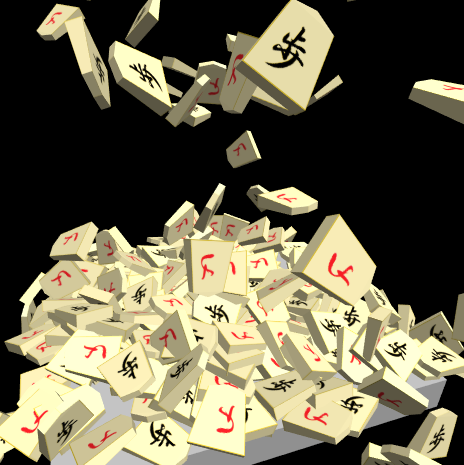
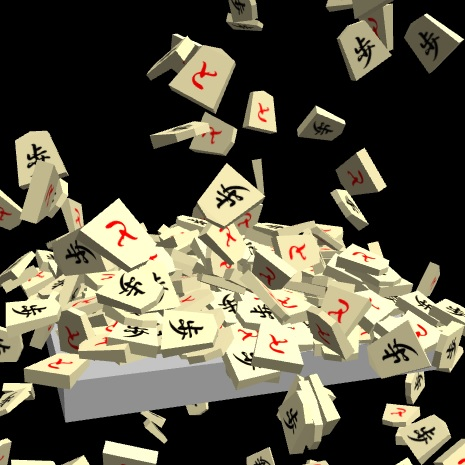
Adjusted the UV coordinates of shogi pieces

diff --git a/examples/glboost/oimo/shogi/index.js b/examples/glboost/oimo/shogi/index.js
@@ -153,16 +153,16 @@ function populate() {
     
     let texcoords = [
         // Front face
-        [0.5,  0.5], // v0
-        [0.75, 0.5], // v1
-        [0.75, 1.0], // v2
-        [0.5,  1.0], // v3
-        
+        [0.5,          0.5], // v1
+        [0.75,         0.5], // v0
+        [0.75 -0.25/8, 1.0], // v3
+        [0.5  +0.25/8, 1.0], // v2
+
         // Back face
-        [0.25, 0.5], // v4
-        [0.5,  0.5], // v5
-        [0.5,  1.0], // v6
-        [0.25, 1.0], // v7
+        [0.5 ,         0.5], // v5
+        [0.25,         0.5], // v4
+        [0.25 +0.25/8, 1.0], // v7
+        [0.5  -0.25/8, 1.0], // v6
         
         // Top face
         [0.75, 0.5], // v2
@@ -204,7 +204,7 @@ function populate() {
         // Left2 Face
         [0.75,  0.0], // v3
         [1.0,   0.0], // v7
-        [1.0,   0.0], // v9
+        [1.0,   0.5], // v9
         [0.75,  0.5]  // v8
     ];
 
@@ -217,7 +217,7 @@ function populate() {
         20, 21, 22,   20, 22, 23,  // Left face
         24, 25, 26,                // Front2 face
         27, 28, 29,                // Back2 face
-        30, 31, 32,   30, 32, 33,  // Right2 face
+        30, 33, 31,   33, 32, 31,  // Right2 face
         34, 35, 36,   34, 36, 37   // Left2 face
     ];
 

diff --git a/examples/webgl1/oimo/shogi/index.js b/examples/webgl1/oimo/shogi/index.js
@@ -121,16 +121,16 @@ let normal = new Float32Array([
 
 let textureCoords = new Float32Array([
     // Front face
-    0.5,  0.5, // v0
-    0.75, 0.5, // v1
-    0.75, 1.0, // v2
-    0.5,  1.0, // v3
-    
+    0.75,         0.5, // v0
+    0.5,          0.5, // v1
+    0.5  +0.25/8, 1.0, // v2
+    0.75 -0.25/8, 1.0, // v3
+
     // Back face
-    0.25, 0.5, // v4
-    0.5,  0.5, // v5
-    0.5,  1.0, // v6
-    0.25, 1.0, // v7
+    0.5 ,         0.5, // v5
+    0.25,         0.5, // v4
+    0.25 +0.25/8, 1.0, // v7
+    0.5  -0.25/8, 1.0, // v6
     
     // Top face
     0.75, 0.5, // v2
@@ -172,7 +172,7 @@ let textureCoords = new Float32Array([
     // Left2 Face
     0.75,  0.0, // v3
     1.0,   0.0, // v7
-    1.0,   0.0, // v9
+    1.0,   0.5, // v9
     0.75,  0.5  // v8
 ]);
 
@@ -185,7 +185,7 @@ let indeces = new Int16Array([
     20, 21, 22,   20, 22, 23,  // Left face
     24, 25, 26,                // Front2 face
     27, 28, 29,                // Back2 face
-    30, 31, 32,   30, 32, 33,  // Right2 face
+    30, 33, 31,   33, 32, 31,  // Right2 face
     34, 35, 36,   34, 36, 37   // Left2 face
 ]);
 gl.bindBuffer(gl.ELEMENT_ARRAY_BUFFER, gl.createBuffer());
